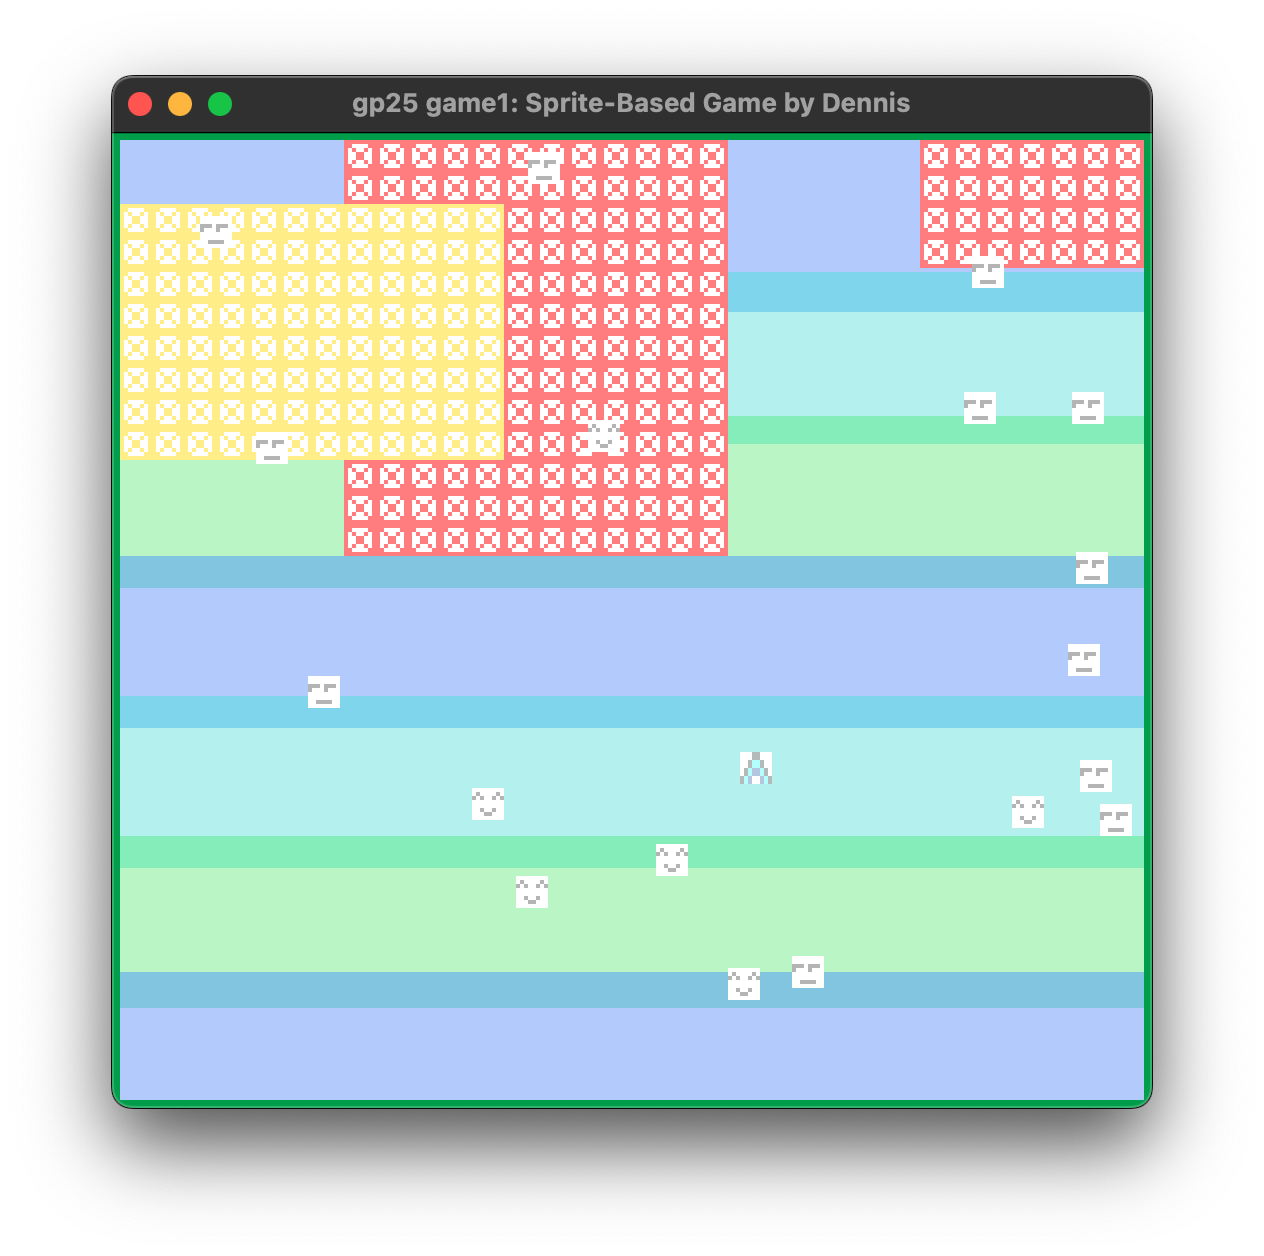
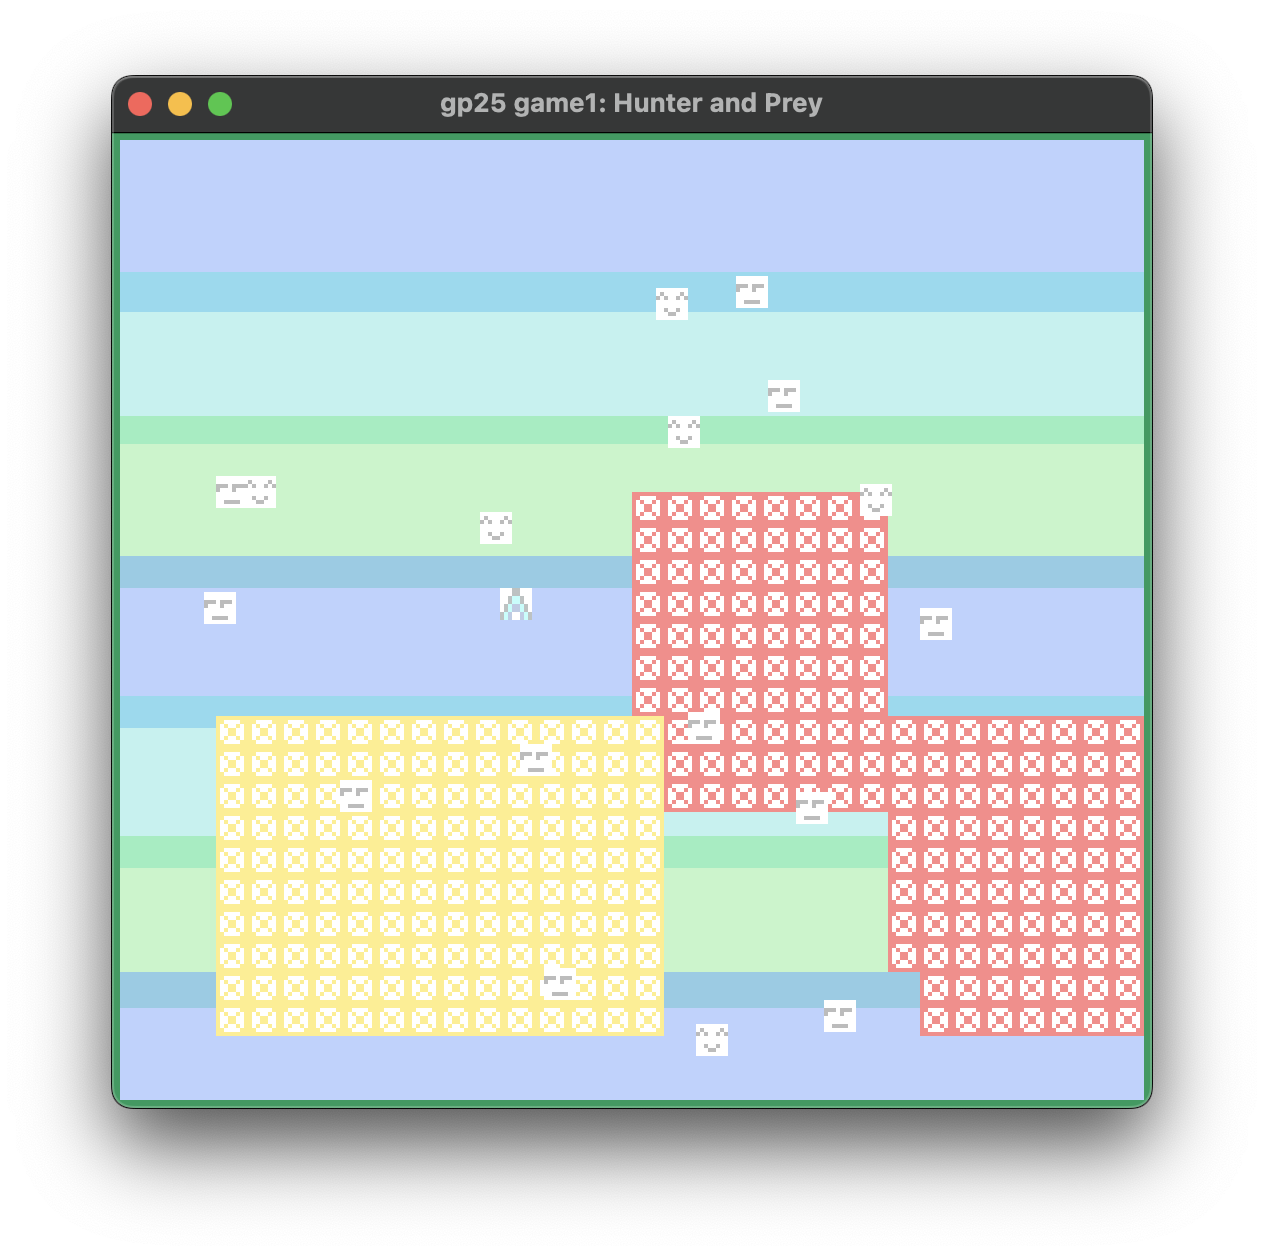
Update Game Info

diff --git a/main.cpp b/main.cpp
@@ -64,7 +64,7 @@ int main(int argc, char **argv) {
 
 	//create window:
 	Mode::window = SDL_CreateWindow(
-		"gp25 game1: Sprite-Based Game by Dennis", //TODO: remember to set a title for your game!
+		"gp25 game1: Hunter and Prey", //TODO: remember to set a title for your game!
 		2*PPU466::ScreenWidth + 8, 2*PPU466::ScreenHeight + 8, //TODO: modify window size if you'd like
 		SDL_WINDOW_OPENGL
 		| SDL_WINDOW_RESIZABLE //uncomment to allow resizing

diff --git a/README.md b/README.md
@@ -1,8 +1,11 @@
-# Sprite-Based Game by Dennis
+# Hunter and Prey
 
 Author: Dennis Sun
 
-Design: This game combines the mechanisms of avoiding traps on the ground, dodging enemies, and chasing targets. 
+Design: This game combines three mechanics:  
+- Avoiding traps on the ground (inspired by *Pummel Party* and *It Takes Two*)  
+- Dodging enemies (inspired by my team’s game in the *Building Virtual Worlds* course)  
+- Chasing targets
 
 Screen Shot:
 
@@ -34,13 +37,15 @@ Sprites
 
 How To Play:
 
+Controls: Use the arrow keys to control player ![player](assets/player.png) movement. 
+
 Avoid the traps (![trap1](assets/trap1.png)![trap2](assets/trap2.png))! When traps first appear, they are yellow. In this state, you can still step on them safely—they serve as a warning. When they turn red, if you step on them, you will lose the game. 
 
 Dodge the ![enemy](assets/enemy.png) sprite! If you touch them, you will lose the game.
 
 Chase the ![target](assets/target.png) sprite! Collect all of them to win the game.
 
-Controls: Use the arrow keys to control player movement. 
+
 
 
 
